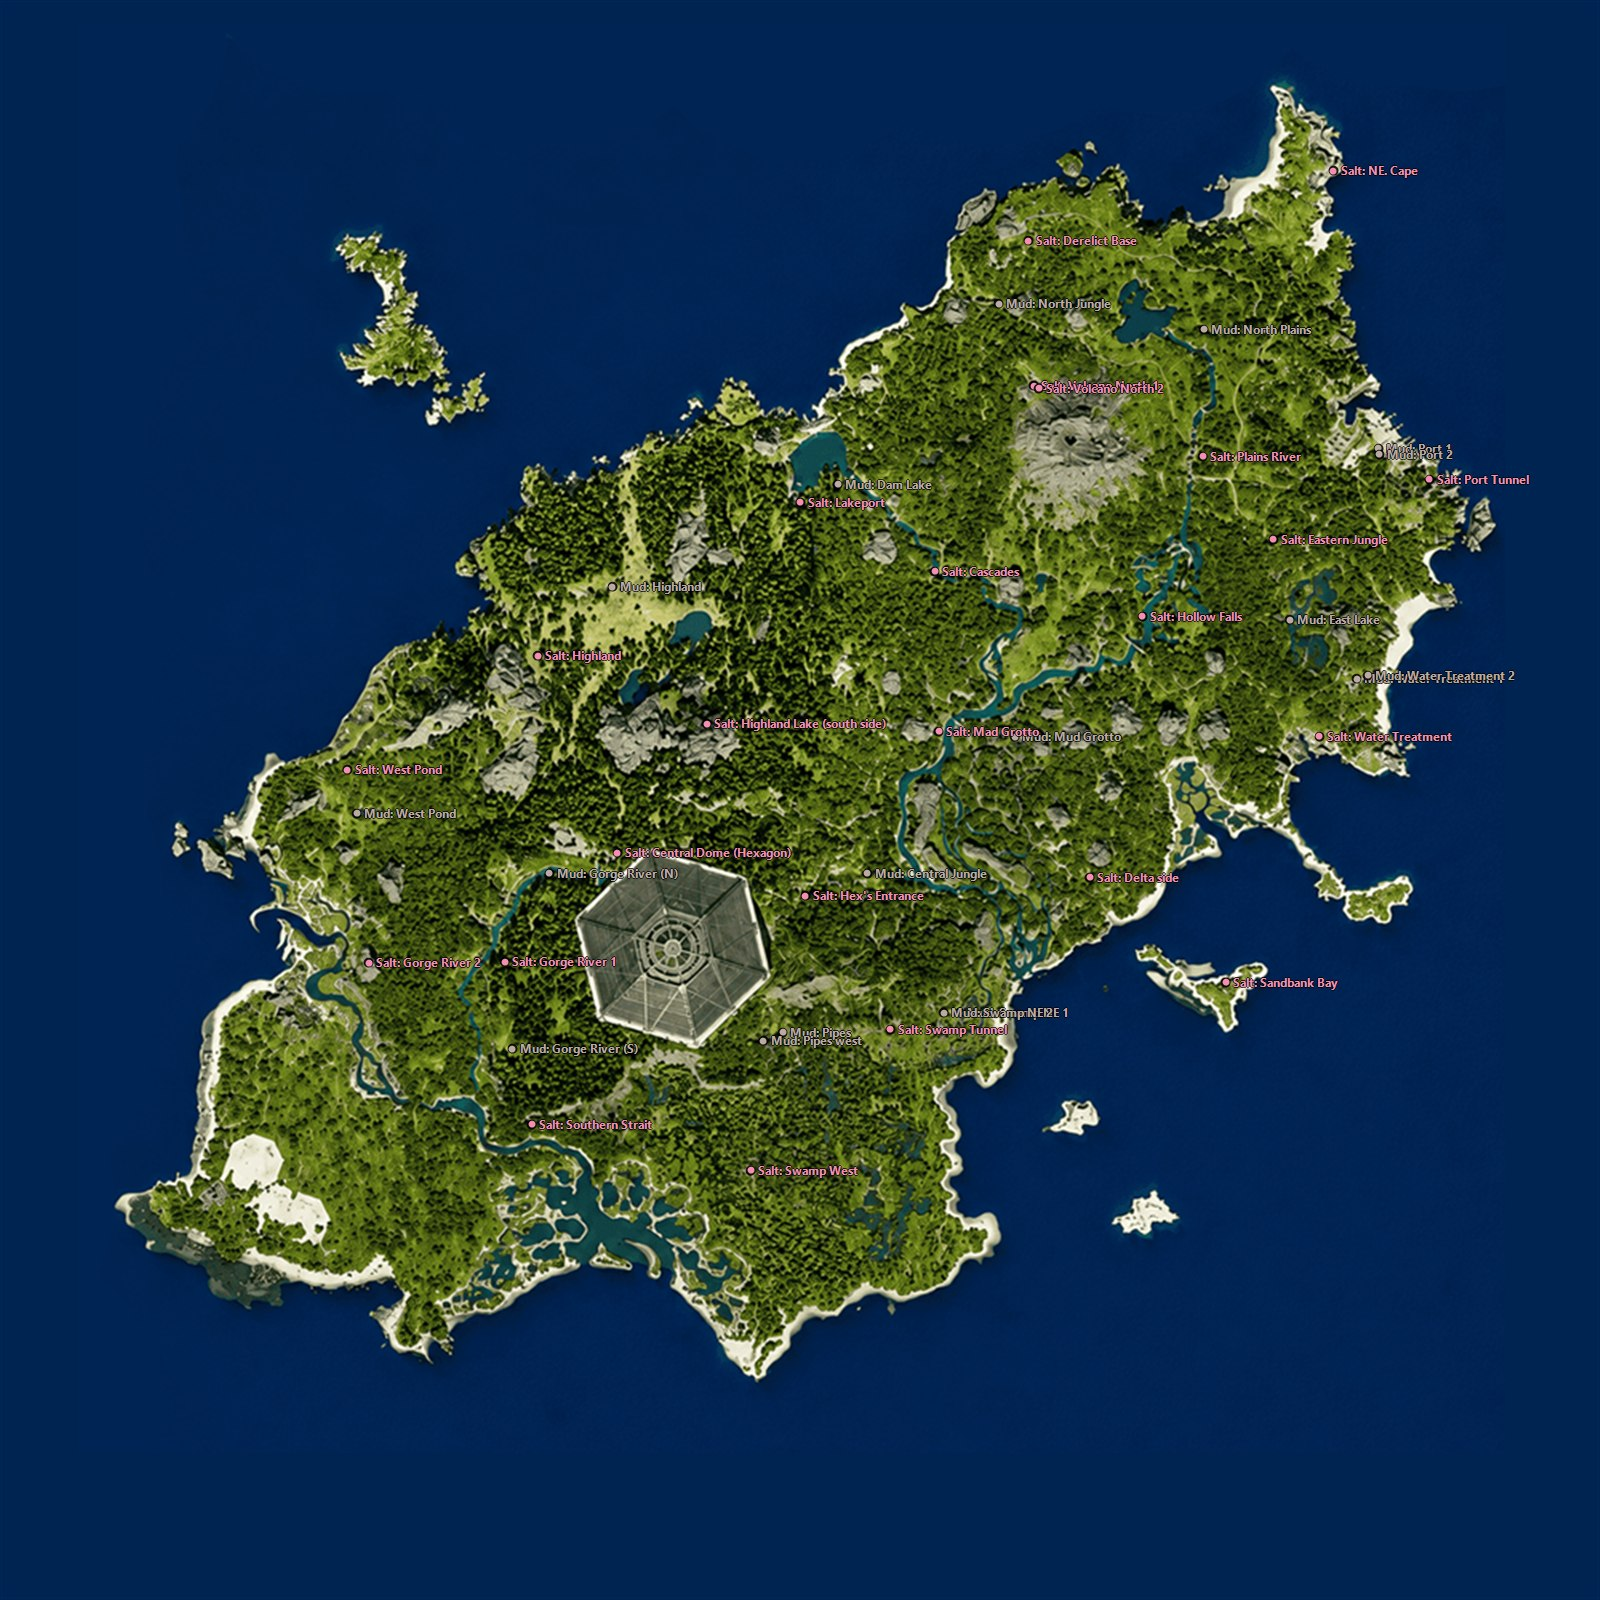
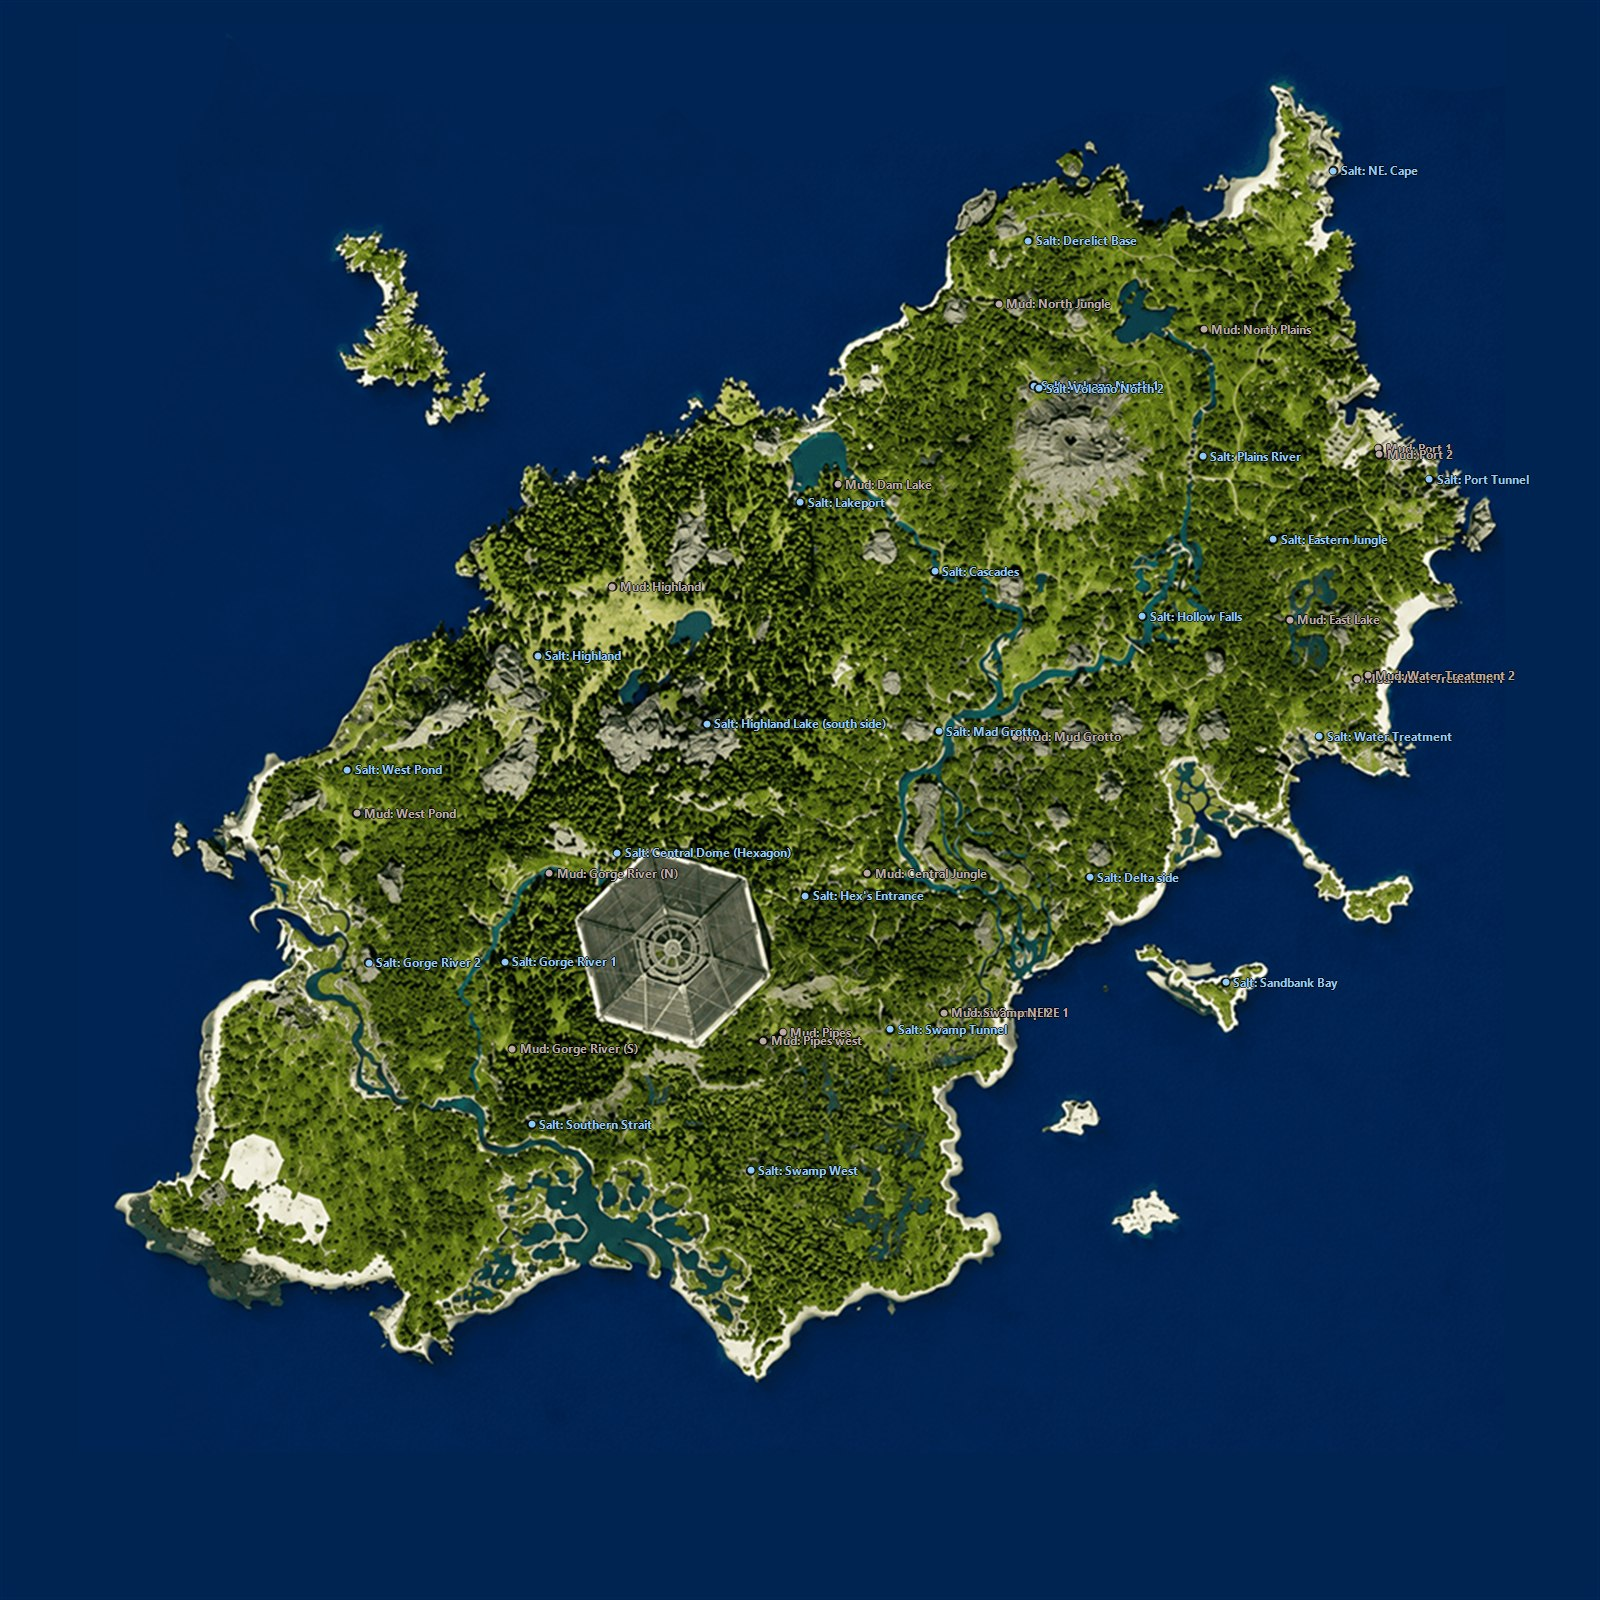
Waypoint packs: salt rocks in pale blue instead of pink

diff --git a/packs/README.md b/packs/README.md
@@ -14,7 +14,7 @@ To download one, open it here on GitHub and use the **Download raw file** button
 
 ![Every waypoint of the areas, water and landmarks packs plotted on the island map: areas in white, water in blue, landmarks in yellow, human sites in purple](gateway-preview.jpg)
 
-![The mud and salt rock packs plotted on the island map: mud pools in tan, salt rocks in pink](gateway-mud-salt-preview.jpg)
+![The mud and salt rock packs plotted on the island map: mud pools in tan, salt rocks in pale blue](gateway-mud-salt-preview.jpg)
 
 ## Importing a pack
 
